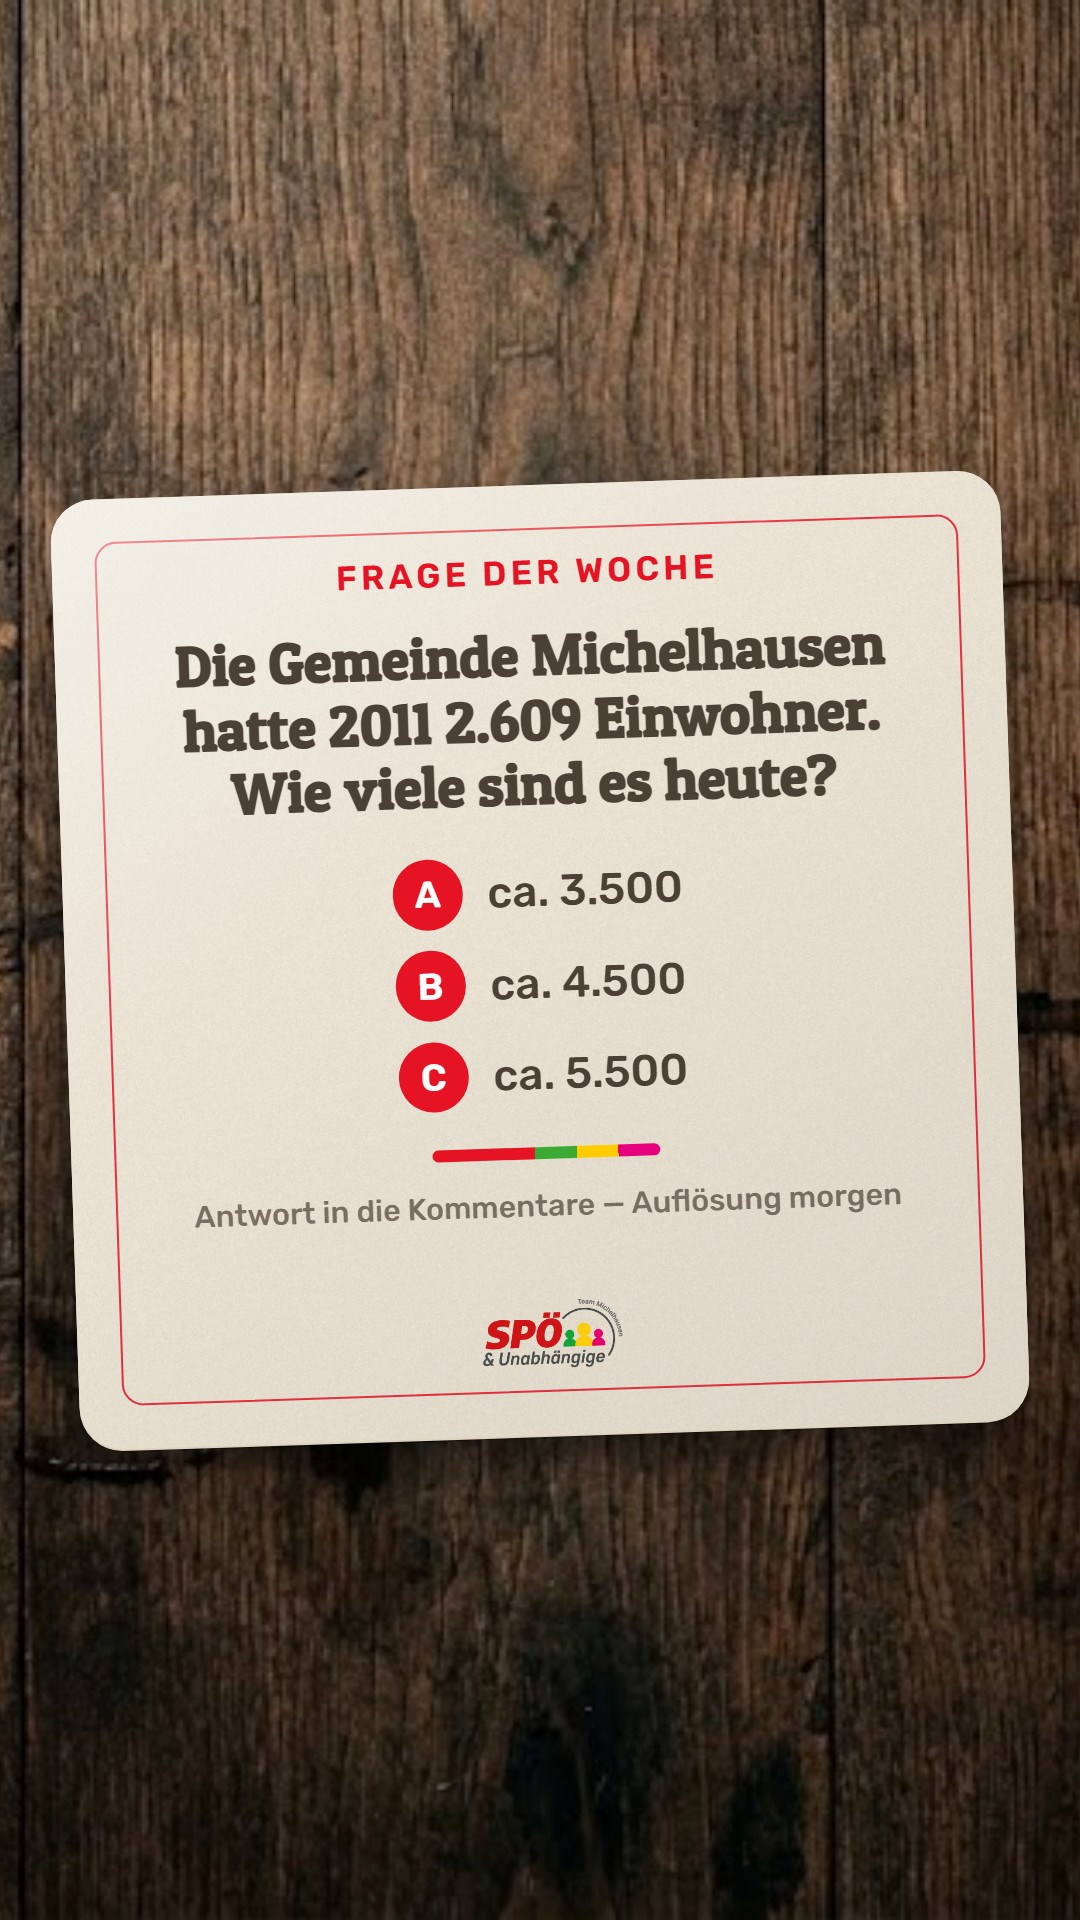
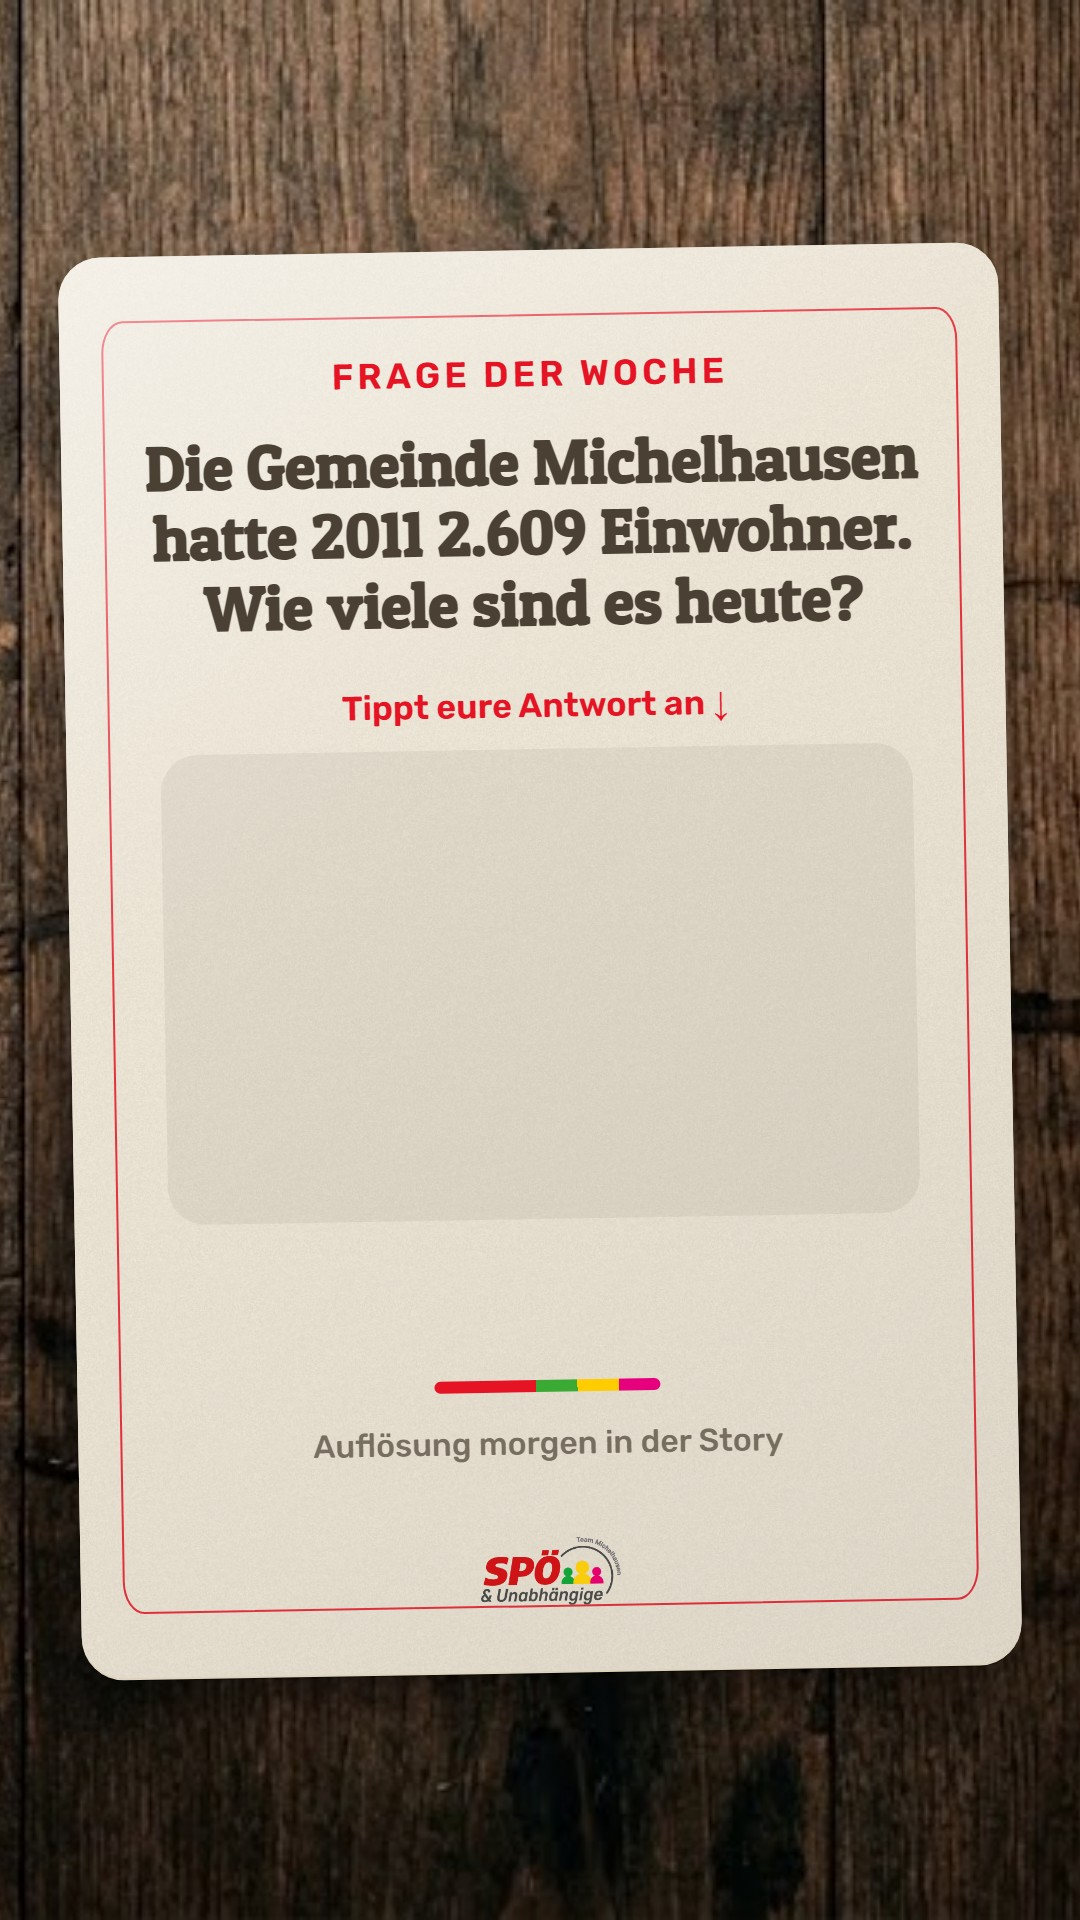
Frage #1: Story-Fassung für Instagram-Umfrage-Sticker
Story ohne Antworten, mit freiem Feld für den Sticker; ersetzt die bisherige
Story unter gleichem Dateinamen. Hinweis zum Sticker auf der Sujets-Seite.

diff --git a/tools/frage.html b/tools/frage.html
@@ -85,6 +85,29 @@
   .flagbar { margin-inline: auto; border-radius: 99px;
              background: linear-gradient(90deg, var(--red) 0 45%, var(--green) 45% 63.3%,
                          var(--yellow) 63.3% 81.6%, var(--magenta) 81.6% 100%); }
+
+  /* ---- Story mit Umfrage-Sticker (?umfrage=1) ----
+     Instagram-Storys haben keine Kommentare. Die Antworten kommen deshalb
+     nicht aufs Bild, sondern in einen Umfrage-Sticker, den das Social-Media-
+     Team beim Posten drüberlegt. Das Bild hält dafür ein freies Feld frei —
+     hochkant-Bierdeckel, damit Frage, Feld und Absender untereinander passen
+     und rundum noch Deckelrand zu sehen ist. Oben und unten bleibt die
+     Instagram-Leiste (Profil, Antwortfeld) frei von Inhalt. */
+  .hint, .pollzone { display: none; }
+  .umfrage .opts { display: none; }
+  .umfrage .mat { place-items: start center; }
+  .umfrage .content { height: 100%; display: flex; flex-direction: column; align-items: center; }
+  .umfrage .hint { display: block; font-family: Rubik, sans-serif; font-weight: 600;
+                   color: var(--red); }
+  .umfrage .pollzone { display: grid; place-items: center; margin-inline: auto;
+                       background: rgba(74,64,52,.07); }
+  .umfrage .spacer { flex: 1; }
+
+  /* Nur für die Vorschau (?mock=1): grober Nachbau des Instagram-Stickers,
+     damit man die Wirkung beurteilen kann. Kommt nie auf die Seite. */
+  .mock { background: #fff; box-shadow: 0 6px 24px rgba(0,0,0,.28);
+          font-family: -apple-system, 'Segoe UI', Roboto, Arial, sans-serif; text-align: left; }
+  .mock div { background: #efefef; color: #262626; font-weight: 600; }
 </style>
 </head>
 <body>
@@ -104,6 +127,9 @@
           <div class="opt"><b>B</b><span>ca. 4.500</span></div>
           <div class="opt"><b>C</b><span>ca. 5.500</span></div>
         </div>
+        <p class="hint" id="hint">Tippt eure Antwort an ↓</p>
+        <div class="pollzone" id="pollzone"></div>
+        <div class="spacer"></div>
         <div class="flagbar" id="flagbar"></div>
         <p class="foot" id="foot">Antwort in die Kommentare — Auflösung morgen</p>
         <div class="sender" id="sender">
@@ -160,6 +186,61 @@
   set('foot', 'fontSize', 3.2);
   set('foot', 'marginBottom', 3.2);
   document.getElementById('logo').style.height = (u * 12) + 'px';
+
+  if (!p.get('umfrage')) return;
+
+  // Hochkant-Deckel: 1080x1920, Instagram belegt oben ~250 px (Profilzeile)
+  // und unten ~250 px (Antwortfeld). Der Deckelrand darf da hinein, Inhalt nicht.
+  document.body.classList.add('umfrage');
+  var mw = Math.round(W * 0.87), mh = Math.round(H * 0.74);
+  m.style.width = mw + 'px';
+  m.style.height = mh + 'px';
+  m.style.borderRadius = (mw * 0.045) + 'px';
+  document.getElementById('matWrap').style.transform = 'rotate(-1deg)';
+  u = mw / 100;
+
+  var c = m.querySelector('.content');
+  c.style.paddingTop = (u * 11) + 'px';
+  c.style.paddingBottom = (u * 7) + 'px';
+  set('kicker', 'fontSize', 3.8);
+  set('kicker', 'marginBottom', 3.4);
+  set('q', 'fontSize', 6.6);
+  set('q', 'marginBottom', 5);
+  set('hint', 'fontSize', 3.6);
+  set('hint', 'marginBottom', 2.6);
+
+  // Freies Feld für den Sticker: etwas größer als ein Instagram-Umfrage-
+  // Sticker mit drei Antworten in Standardgröße, damit Luft zum Schieben bleibt.
+  var pz = document.getElementById('pollzone');
+  pz.style.width = (u * 80) + 'px';
+  pz.style.height = (u * 50) + 'px';
+  pz.style.borderRadius = (u * 4) + 'px';
+
+  var foot = document.getElementById('foot');
+  foot.textContent = 'Auflösung morgen in der Story';
+  set('foot', 'fontSize', 3.4);
+  set('flagbar', 'marginBottom', 3.4);
+  fb.style.width = (u * 24) + 'px';
+  fb.style.height = (u * 1.3) + 'px';
+  document.getElementById('logo').style.height = (u * 12) + 'px';
+
+  if (!p.get('mock')) return;
+  var box = document.createElement('div');
+  box.className = 'mock';
+  box.style.width = (u * 68) + 'px';
+  box.style.padding = (u * 3) + 'px';
+  box.style.borderRadius = (u * 3.4) + 'px';
+  [].forEach.call(document.querySelectorAll('.opt span'), function (s) {
+    var o = document.createElement('div');
+    o.textContent = s.textContent;
+    o.style.fontSize = (u * 4) + 'px';
+    o.style.padding = (u * 2.6) + 'px ' + (u * 3.4) + 'px';
+    o.style.borderRadius = (u * 2.2) + 'px';
+    o.style.marginTop = (u * 1.6) + 'px';
+    box.appendChild(o);
+  });
+  box.firstChild.style.marginTop = 0;
+  pz.appendChild(box);
 })();
 </script>
 </body>

diff --git a/sujets/index.html b/sujets/index.html
@@ -587,7 +587,7 @@ Link unten 👇</pre>
           <figure class="asset">
             <img src="wirtshausquiz-frage1-story.jpg" alt="Story 9:16" loading="lazy">
             <figcaption class="asset__bar">
-              <span class="asset__name"><b>Story 9:16</b><br>Story</span>
+              <span class="asset__name"><b>Story 9:16</b><br>Story, Umfrage-Sticker!</span>
               <a class="dl" href="wirtshausquiz-frage1-story.jpg" download>Herunterladen</a>
             </figcaption>
           </figure>
@@ -602,9 +602,9 @@ Link unten 👇</pre>
 
           <dl class="meta">
             <dt>Wo</dt>
-            <dd><span class="chan">Instagram Feed</span><span class="chan">Facebook Seite</span></dd>
+            <dd><span class="chan">Instagram Feed</span><span class="chan">Instagram Story</span><span class="chan">Facebook Seite</span></dd>
             <dt>Bild</dt>
-            <dd>Fertig — Bierdeckel-Motiv mit der Zuzugsfrage, siehe oben.</dd>
+            <dd>Fertig — Bierdeckel-Motiv mit der Zuzugsfrage, siehe oben. Die Story-Fassung ist für den Umfrage-Sticker gebaut.</dd>
             <dt>Ziel</dt>
             <dd>Reichweite über Kommentare. Das billigste Mittel, das es gibt: Leute raten mit,
               und jeder Kommentar trägt den Post weiter.</dd>
@@ -629,6 +629,10 @@ Und wer's beim Quizabend live wissen will: Freitag, 16. Oktober beim Burchhart. 
           </div>
 
           <ul class="todo">
+            <li><strong>Story:</strong> Das Story-Bild hat keine Antworten drauf, sondern ein freies
+              Feld. Sticker „Umfrage“ drüberlegen, die drei Antworten eintragen
+              (<em>ca. 3.500 · ca. 4.500 · ca. 5.500</em>) und aufs Feld ziehen. Das Fragefeld
+              im Sticker leer lassen — falls Instagram eines verlangt, reicht „Wie viele?“.</li>
             <li><strong>Die Antwort steht nicht im Text.</strong> Sie kommt am nächsten Tag als
               Kommentar unter den eigenen Post.</li>
             <li>Auf falsche Antworten freundlich reagieren, nicht korrigieren — das hält die

diff --git a/tools/build_motive.py b/tools/build_motive.py
@@ -95,8 +95,22 @@ MOTIVE = {
         "renders": [
             ("wirtshausquiz-frage1-feed", 1080, 1350, "Feed 4:5"),
             ("wirtshausquiz-frage1-quadrat", 1080, 1080, "Feed 1:1"),
-            ("wirtshausquiz-frage1-story", 1080, 1920, "Story 9:16"),
         ],
+        "jpg": True,
+    },
+    # Die Story hat keine Kommentare: ohne Antworten, mit freiem Feld für den
+    # Instagram-Umfrage-Sticker. Die Vorschau zeigt einen nachgebauten Sticker
+    # und bleibt in tools/out/.
+    "frage-umfrage": {
+        "template": "frage.html",
+        "query": "&umfrage=1",
+        "renders": [("wirtshausquiz-frage1-story", 1080, 1920, "Story 9:16, Umfrage")],
+        "jpg": True,
+    },
+    "frage-umfrage-vorschau": {
+        "template": "frage.html",
+        "query": "&umfrage=1&mock=1",
+        "renders": [("wirtshausquiz-frage1-story-umfrage-vorschau", 1080, 1920, "nur Vorschau")],
         "jpg": True,
     },
     # Die Agentur nimmt ausschliesslich Hochformat 1080x1920, PNG/JPG unter 3 MB.
@@ -222,7 +236,7 @@ def build(name, spec, browser, noise, qr, ort=None, suffix="", extra_vars=None):
     try:
         for fname, w, h, label in spec["renders"]:
             target = OUT / (fname + suffix + ".png")
-            url = built.as_uri() + "?w={}&h={}".format(w, h)
+            url = built.as_uri() + "?w={}&h={}".format(w, h) + spec.get("query", "")
             subprocess.run(
                 [
                     browser,
